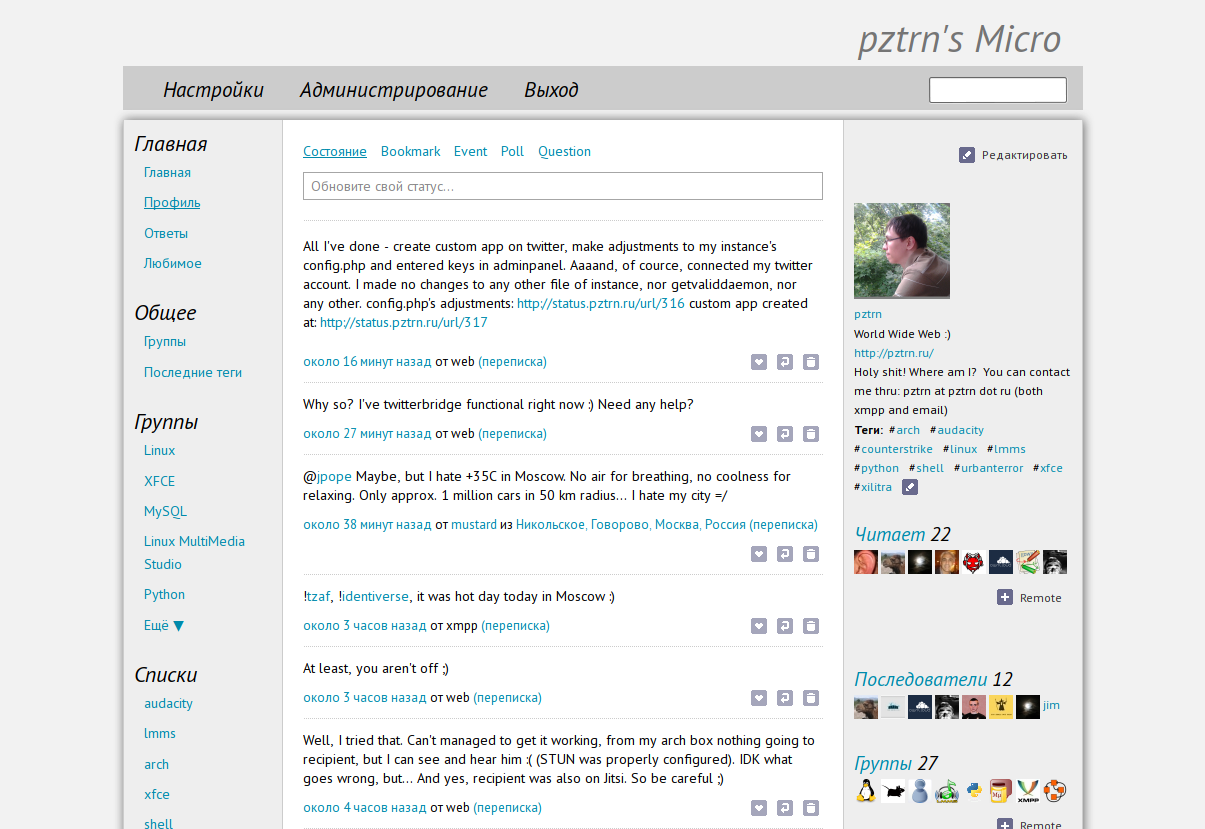
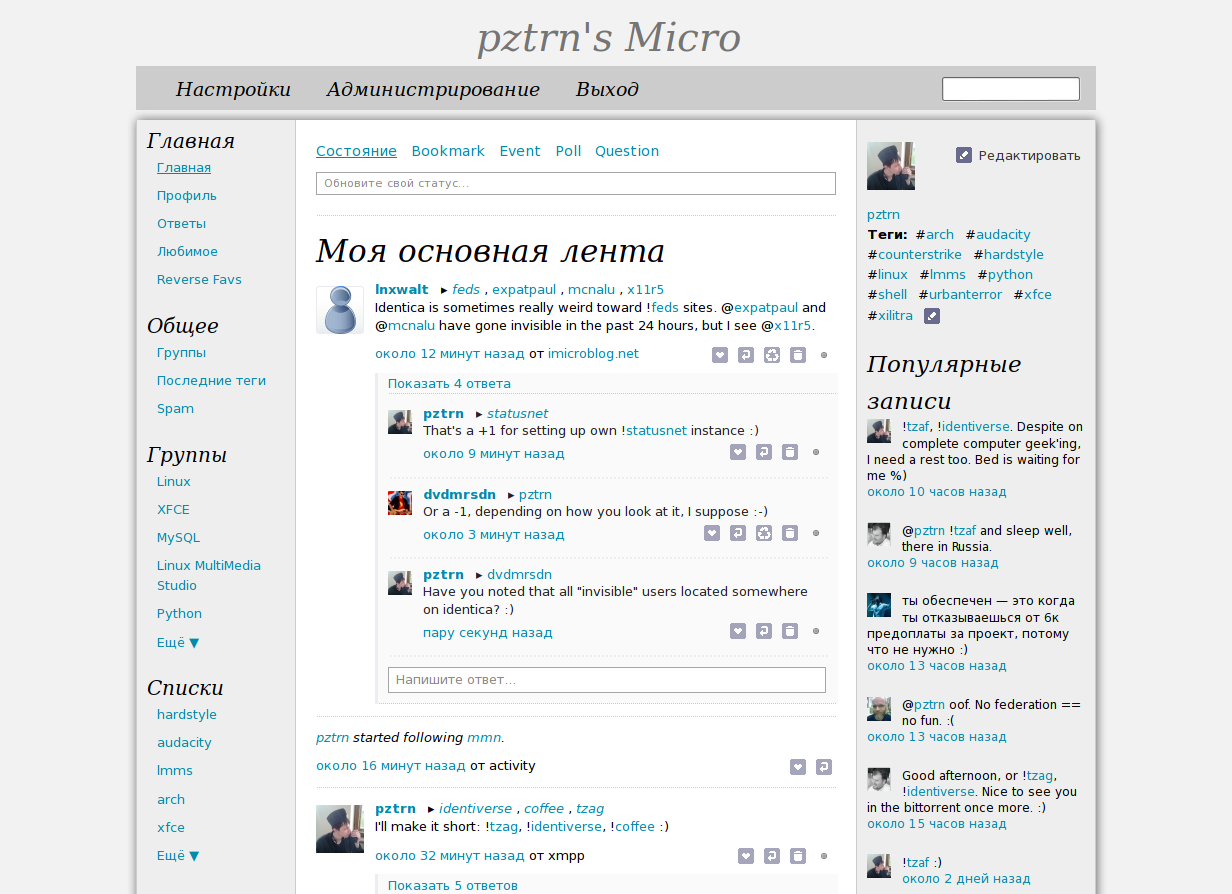
Modified fonts sizes to smaller one

Changed region(s): [[0.0921, 0.0302, 0.9212, 1.0], [0.5527, 0.7539, 0.5834, 0.7841]]

diff --git a/css/display.css b/css/display.css
@@ -28,7 +28,7 @@ h1, h2, h3, h4, h5, h6 {
 }
 
 #site_contact {
-    margin-left: 715px;
+    margin-left: 320px;
     width: 100%;
 }
 
@@ -68,9 +68,9 @@ h1, h2, h3, h4, h5, h6 {
     padding: 10px 5px 10px 0;
     position: static;
     width: auto;
-    background:
-    #ccc;
+    background: #ccc;
     margin-bottom: 10px;
+    font-size: 0.9em;
 }
 
 #site_nav_global_primary a:link, #site_nav_global_primary a:visited {
@@ -111,10 +111,6 @@ h1, h2, h3, h4, h5, h6 {
     margin-bottom: 10px;
 }
 
-div.entry-content {
-    font-size: 90%;
-}
-
 div.entry-content a.response::before {
     content: "(";
 }
@@ -132,11 +128,12 @@ div.entry-content a.response::after {
 }
 
 #aside_primary {
-    font-size: 80%;
+    font-size: 90%;
 }
 
 #site_nav_local_views {
     padding-top: 5px;
+    font-size: 0.9em;
 }
 
 #entity_subscriptions .vcard .photo, #entity_subscribers .vcard .photo, #entity_groups .vcard .photo {
@@ -180,3 +177,15 @@ div.entry-content a.response::after {
   #showstream #site_nav_local_views_wrapper, #all #site_nav_local_views_wrapper {background: none; border: none;}
   #showstream #content, #all #content {width: 678px;}
 /* /2cols */
+
+.hentry {
+    font-size: 95%;
+}
+
+.input_form_nav {
+    font-size: 0.8em;
+}
+
+.input_form {
+    font-size: 0.8em;
+}
